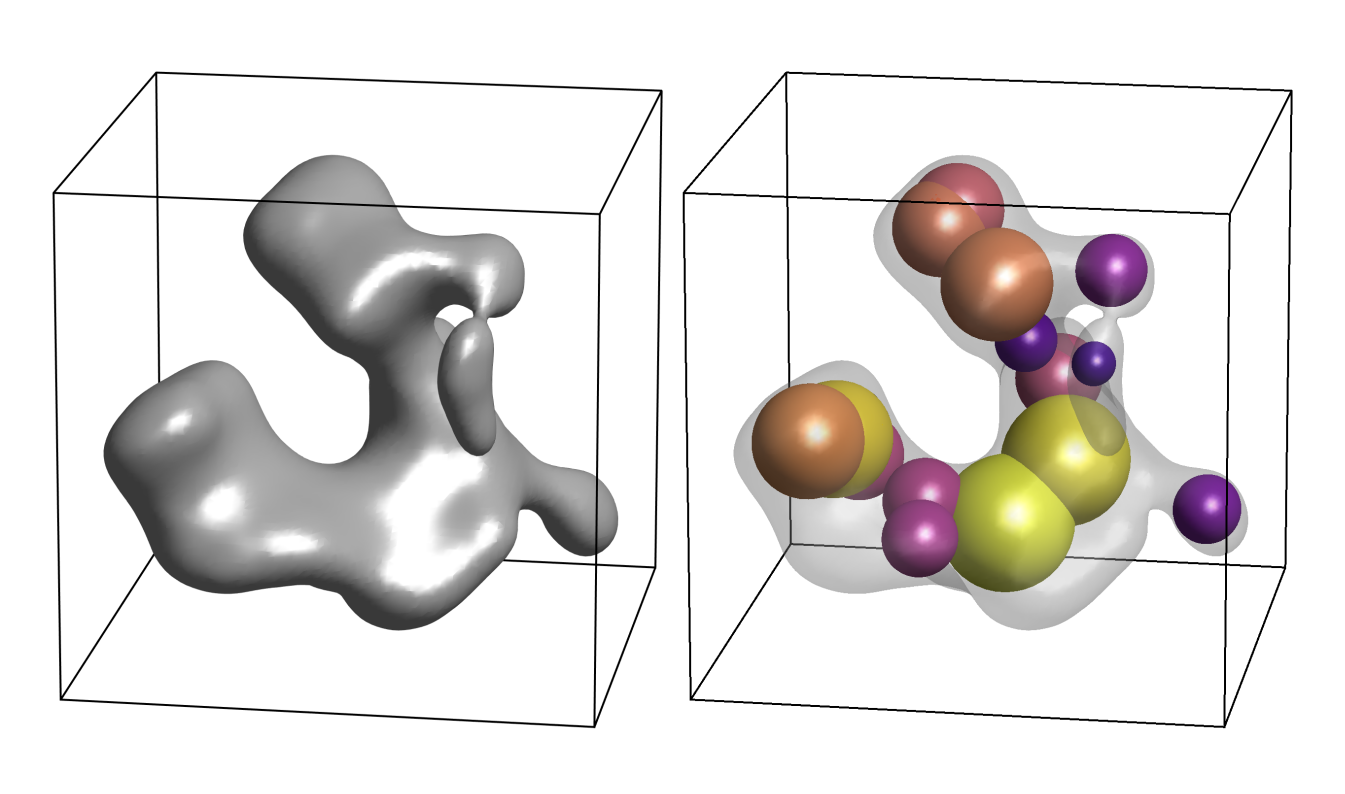
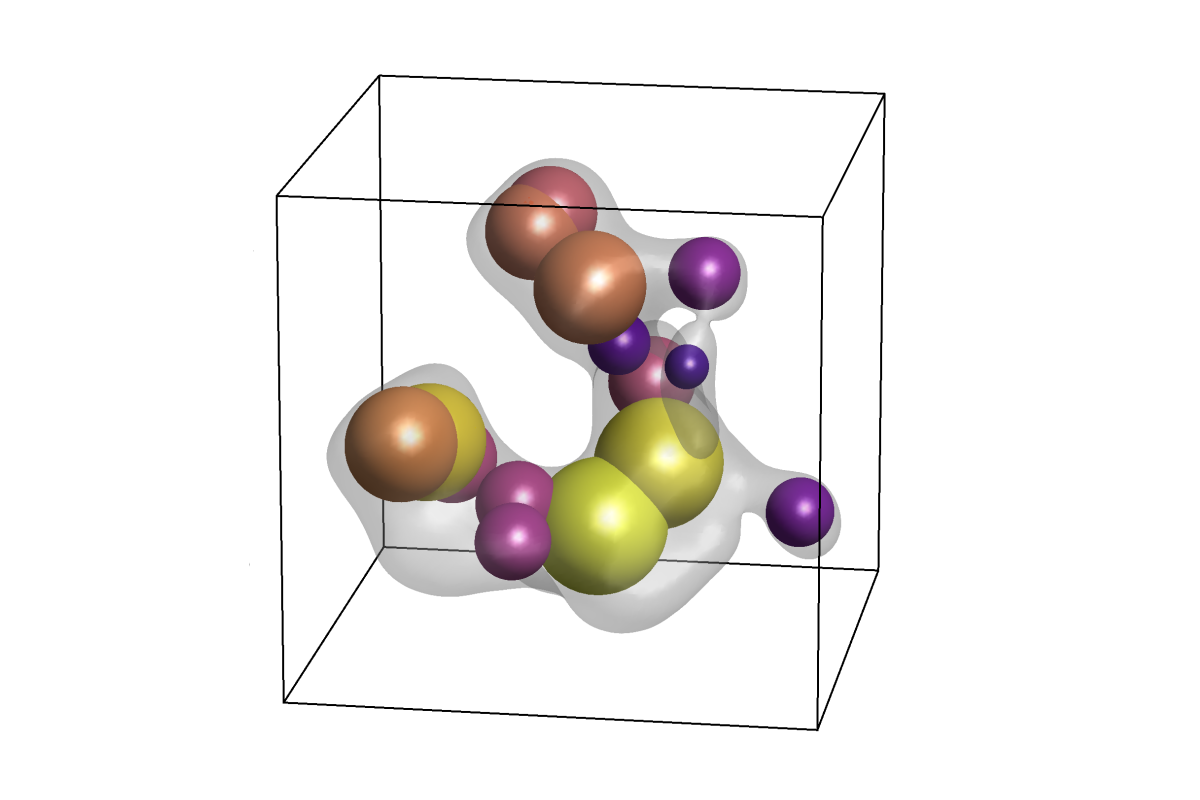
Updated tools

diff --git a/layouts/shortcodes/fig.html b/layouts/shortcodes/fig.html
@@ -1,0 +1,40 @@
+<figure class="my-8">
+  {{ $src := .Get "src" }}
+  {{ $alt := .Get "alt" | default "" }}
+  {{ $caption := .Get "caption" }}
+  {{ $class := "w-full rounded-xl" }}
+
+  {{ $isSvg := strings.HasSuffix (lower $src) ".svg" }}
+
+  {{ if $isSvg }}
+    {{ with resources.Get $src }}
+      {{ .Content | safeHTML }}
+    {{ else }}
+      <img src="{{ $src | relURL }}" alt="{{ $alt }}" class="{{ $class }}" />
+    {{ end }}
+  {{ else }}
+    {{ with resources.Get $src }}
+      {{ $imgRes := . }}
+      {{ $breakpoints := slice 320 480 768 1024 1280 1600 1920 }}
+      {{ $images := slice }}
+      {{ range $breakpoints }}
+        {{ $bp := . }}
+        {{ if ge $imgRes.Width $bp }}
+          {{ $images = $images | append (slice ($imgRes.Resize (printf "%dx q95 webp" $bp))) }}
+        {{ end }}
+      {{ end }}
+      {{ $srcsetList := slice }}
+      {{ range $images }}
+        {{ $srcsetList = $srcsetList | append (slice (printf "%s %dw" .Permalink .Width)) }}
+      {{ end }}
+      {{ $srcset := delimit $srcsetList ", " }}
+      <img src="{{ $imgRes.Permalink }}"{{ with $srcset }} srcset="{{ . }}"{{ end }} alt="{{ $alt }}" class="{{ $class }}" loading="lazy" decoding="async" />
+    {{ else }}
+      <img src="{{ $src | relURL }}" alt="{{ $alt }}" class="{{ $class }}" loading="lazy" decoding="async" />
+    {{ end }}
+  {{ end }}
+
+  {{ with $caption }}
+    <figcaption class="mt-3 text-center text-sm text-[#777777] italic leading-relaxed">{{ . | markdownify }}</figcaption>
+  {{ end }}
+</figure>

diff --git a/layouts/tools/single.html b/layouts/tools/single.html
@@ -8,7 +8,13 @@
               <h1 class="markdown-title text-3xl xl:text-4xl font-bold xl:leading-normal mb-4">{{ . | markdownify }}</h1>
             {{ end }}
             {{ with .Params.authors }}
-              <p class="text-sm text-gray-500 italic mb-4">{{ . }}</p>
+              <div class="flex flex-wrap gap-2 mb-4">
+                {{ range . }}
+                  <span class="inline-flex items-center px-2.5 py-1 rounded-full text-xs font-semibold tag-gray">
+                    {{ . }}
+                  </span>
+                {{ end }}
+              </div>
             {{ end }}
             {{ with .Description }}
               <p class="text-lg xl:leading-loose font-medium text-[#777777]">{{ . }}</p>
@@ -46,7 +52,7 @@
 
     <!-- Tool Details -->
     <div class="container mx-auto px-4 mb-28">
-      <div class="prose-lg prose prose-img:max-w-full">
+      <div class="prose-lg prose prose-img:max-w-full max-w-none">
         {{ .Content }}
       </div>
     </div>

diff --git a/layouts/baseof.html b/layouts/baseof.html
@@ -120,6 +120,23 @@
     {{ end }}
 
 
+    <!-- KaTeX for math rendering -->
+    <link rel="stylesheet" href="https://cdn.jsdelivr.net/npm/katex@0.16.11/dist/katex.min.css">
+    <script src="https://cdn.jsdelivr.net/npm/katex@0.16.11/dist/katex.min.js"></script>
+    <script src="https://cdn.jsdelivr.net/npm/katex@0.16.11/dist/contrib/auto-render.min.js"></script>
+    <script>
+      document.addEventListener('DOMContentLoaded', function () {
+        renderMathInElement(document.body, {
+          delimiters: [
+            { left: '$$', right: '$$', display: true },
+            { left: '\\[', right: '\\]', display: true },
+            { left: '$', right: '$', display: false },
+            { left: '\\(', right: '\\)', display: false },
+          ],
+        });
+      });
+    </script>
+
     <!-- Load JS -->
     {{- $main := resources.Get "js/main.js" -}}
     {{ with $main }}

diff --git a/layouts/tools/list.html b/layouts/tools/list.html
@@ -38,9 +38,9 @@
               {{ if $img }}
                 {{ $src := printf "%v" $img }}
                 {{ if strings.HasSuffix (lower $src) ".svg" }}
-                  {{ partial "utilities/svg" (dict "src" $src "class" "w-full h-full object-contain object-center") }}
+                  {{ partial "utilities/svg" (dict "src" $src "class" "w-full h-full object-cover object-center") }}
                 {{ else }}
-                  {{ partial "utilities/image" (dict "src" $src "class" "w-full h-full object-contain object-center") }}
+                  {{ partial "utilities/image" (dict "src" $src "class" "w-full h-full object-cover object-center") }}
                 {{ end }}
               {{ end }}
             </div>

diff --git a/layouts/list.html b/layouts/list.html
@@ -59,12 +59,12 @@
                 {{ if strings.HasSuffix (lower $src) ".svg" }}
                   {{ partial "utilities/svg" (dict
                     "src" $src
-                    "class" "w-full h-full object-contain object-center"
+                    "class" "w-full h-full object-cover object-center"
                   ) }}
                 {{ else }}
                   {{ partial "utilities/image" (dict
                     "src" $src
-                    "class" "w-full h-full object-contain object-center"
+                    "class" "w-full h-full object-cover object-center"
                   ) }}
                 {{ end }}
               {{ end }}

diff --git a/layouts/support/list.html b/layouts/support/list.html
@@ -48,12 +48,12 @@
                 {{ if strings.HasSuffix (lower $src) ".svg" }}
                   {{ partial "utilities/svg" (dict
                     "src" $src
-                    "class" "w-full h-full object-contain object-center"
+                    "class" "w-full h-full object-cover object-center"
                   ) }}
                 {{ else }}
                   {{ partial "utilities/image" (dict
                     "src" $src
-                    "class" "w-full h-full object-contain object-center"
+                    "class" "w-full h-full object-cover object-center"
                   ) }}
                 {{ end }}
               {{ end }}

diff --git a/layouts/single.html b/layouts/single.html
@@ -1,7 +1,7 @@
 {{ define "main" }}
   <section class="py-16">
     <div class="container mx-auto px-4 mb-24">
-      <div class="mx-auto xl:max-w-1/2 mb-16">
+      <div class="mb-16">
         {{ with .Title }}
           <h1 class="markdown-title text-center text-4xl xl:text-5xl font-bold xl:leading-normal mb-10">{{ . | markdownify }}</h1>
         {{ end }}
@@ -21,7 +21,7 @@
     <!--Highlighted Post-->
     {{ $post := (index .RegularPages 0) }}
     <div class="container mx-auto px-4 mb-28">
-      <div class="prose-lg prose mx-auto">
+      <div class="prose-lg prose max-w-none">
         {{ .Content }}
       </div>
     </div>

diff --git a/layouts/support/single.html b/layouts/support/single.html
@@ -1,7 +1,7 @@
 {{ define "main" }}
   <section class="py-16">
     <div class="container mx-auto px-4 mb-24">
-      <div class="mx-auto max-w-5xl">
+      <div>
         {{ with .Title }}
           <h1 class="markdown-title text-center text-4xl xl:text-5xl font-bold xl:leading-normal mb-10">{{ . | markdownify }}</h1>
         {{ end }}
@@ -12,7 +12,7 @@
     </div>
 
     <div class="container mx-auto px-4 mb-28">
-      <div class="prose-lg prose prose-img:max-w-full mx-auto max-w-5xl">
+      <div class="prose-lg prose prose-img:max-w-full max-w-none">
         {{ .Content }}
       </div>
     </div>

diff --git a/layouts/events/single.html b/layouts/events/single.html
@@ -1,6 +1,6 @@
 {{ define "main" }}
   <section class="py-16">
-    <div class="container mx-auto px-4 max-w-4xl">
+    <div class="container mx-auto px-4">
       <article>
         <header class="mb-12">
           <h1 class="text-4xl md:text-5xl font-bold mb-4">{{ .Title }}</h1>

diff --git a/assets/css/styles.css b/assets/css/styles.css
@@ -13,6 +13,16 @@
   h1 {
     color: #505050;
   }
+
+  img {
+    max-height: 600px;
+    width: auto;
+    height: auto;
+    object-fit: contain;
+    display: block;
+    margin-left: auto;
+    margin-right: auto;
+  }
 }
 
 @theme {

diff --git a/content/tools/structure-tensor.md b/content/tools/structure-tensor.md
@@ -1,16 +1,76 @@
 +++
 title = "Structure Tensor"
-description = "Analyses orientation in volumetric images using the structure tensor method."
-authors = "Niels Jeppesen"
-tags = ["Analysis"]
+description = "Analyses orientation in volumetric images using the gradient-based structure tensor method."
+authors = ["Niels Jeppesen"]
+tags = ["Analysis", "Orientation"]
 image = "images/tools/structure-tensor.png"
 source_url = "https://github.com/Skielex/structure-tensor"
 +++
 
 ## Overview
 
-This tool analyses orientation in volumetric images using the structure tensor method. The structure tensor is a gradient-based method that can be used to estimate the local orientation and anisotropy in images.
+The structure tensor is a 3×3 symmetric positive semi-definite matrix that summarizes orientation in a small neighbourhood around every point in a 3D volume. It captures how intensities change along different directions, making it a fundamental tool for analysing fibrous, layered, and other anisotropic structures in volumetric data.
+
+This tool provides an efficient implementation for computing the structure tensor and extracting dominant orientations and shape measures from large 3D datasets.
+
+## Algorithm
+
+Given a 3D volume $V$, the squared intensity change along a direction $\mathbf{u}$ in a neighbourhood around a point $\mathbf{p}$ can be expressed as $\mathbf{u}^T S \, \mathbf{u}$, where $S$ is the structure tensor. Minimising this quadratic form with respect to $\mathbf{u}$ yields the predominant local orientation.
+
+The structure tensor $S$ at a point $\mathbf{p}$ is computed from the gradient $\nabla V$ as:
+
+$$S = \sum_{\mathcal{N}} \nabla V \, \nabla V^T$$
+
+where the sum is taken over a local neighbourhood $\mathcal{N}$ around $\mathbf{p}$.
+
+{{< fig src="/images/tools/structure-tensor/Figure1.png" caption="**Figure 1:** Minimisation problem in 2D. The paraboloid surface is defined by values of $D$ for any displacement $(x, y)$. In orange-red are the values of $D$ above the unit circle, and the dot indicates the minimum corresponding to the predominant orientation. In magenta-red are the values above the line $y = 1$, and the dot indicates the minimum corresponding to optical flow." >}}
+
+Computation involves two Gaussian scale parameters:
+
+- **Noise scale $\sigma$** — used for derivative computation. The volume is convolved with derivatives of a Gaussian to obtain $\nabla_\sigma V$, making the gradient estimation robust to noise.
+- **Integration scale $\rho$** — the size of the neighbourhood over which orientation information is averaged, controlled by convolving the outer product with a Gaussian $K_\rho$.
+
+### Eigendecomposition
+
+Since $S$ is symmetric positive semi-definite, its eigendecomposition yields three real, non-negative eigenvalues $\lambda_1 \leq \lambda_2 \leq \lambda_3$ with corresponding orthogonal eigenvectors $\mathbf{v}_1, \mathbf{v}_2, \mathbf{v}_3$.
+
+The eigenvector $\mathbf{v}_1$ associated with the smallest eigenvalue $\lambda_1$ indicates the **predominant local orientation** — the direction of minimal intensity variation. The eigenvectors $\mathbf{v}_2$ and $\mathbf{v}_3$ span the orthogonal plane.
+
+### Shape Measures
+
+From the eigenvalues, three normalised shape measures are derived, which sum to 1:
+
+| Measure | Formula | Meaning |
+|---|---|---|
+| $c_l$ (linear) | $\frac{\lambda_3 - \lambda_2}{\lambda_3}$ | Anisotropic, line-like structure |
+| $c_p$ (planar) | $\frac{\lambda_2 - \lambda_1}{\lambda_3}$ | Sheet-like structure |
+| $c_s$ (spherical) | $\frac{\lambda_1}{\lambda_3}$ | Isotropic, blob-like structure |
+
+High $c_l$ indicates a well-defined fibrous orientation, high $c_p$ indicates a layered structure, and high $c_s$ indicates isotropic regions.
+
+{{< fig src="/images/tools/structure-tensor/Figure2.png" caption="**Figure 2:** Neighbourhoods and structures corresponding to linear, planar and spherical shape measures." >}}
+
+{{< fig src="/images/tools/structure-tensor/Figure5.png" caption="**Figure 5:** Orientation analysis on synthetic objects — shape measures $c_l$, $c_p$, $c_s$ visualised using RGB colour channels (red = $c_l$, green = $c_p$, blue = $c_s$)." >}}
+
+## Features
+
+- Computes structure tensor for every voxel in large 3D volumes
+- Extracts dominant orientation ($\mathbf{v}_1$) and shape measures ($c_l, c_p, c_s$)
+- Configurable noise scale $\sigma$ and integration scale $\rho$
+- Also computes fractional anisotropy and other diffusion-like metrics
+- Can be used as a standalone application or via our HPC platform
+- Efficient enough for large volumetric datasets
 
 ## Usage
 
 The tool can be used both as a standalone application and through our High Performance Computing platform. For large 3D image datasets that require cluster access, please contact us.
+
+## Applications
+
+- **Fibre orientation analysis** in materials science and bioimaging
+- **Layer detection** in sedimentary and layered materials
+- **Quality control** of anisotropic materials
+- **Preprocessing** for diffusion tensor imaging and optical flow
+- **Feature detection** — corner and interest point detection in 3D
+
+{{< fig src="/images/tools/structure-tensor/Figure7.png" caption="**Figure 7:** Using colour to visualise dominant orientation of cotton fibres in woven fabric. Colour reveals the direction of the twist holding the cotton fibres together in a yarn." >}}

diff --git a/content/tools/local-thickness.md b/content/tools/local-thickness.md
@@ -1,20 +1,66 @@
 +++
 title = "Local Thickness"
-description = "A lightweight pip-installable tool for computing local thickness in 3D images."
-authors = "Vedrana Andersen Dahl, Anders Bjorholm Dahl"
-tags = ["Analysis"]
+description = "Fast local thickness in 2D and 3D — a pip-installable algorithm described in our CVPR 2023 workshop paper."
+authors = ["Vedrana Andersen Dahl", "Anders Bjorholm Dahl"]
+tags = ["Analysis", "Morphometry"]
 image = "images/tools/local-thickness.png"
-source_url = "https://github.com/qim-center/local-thickness"
+source_url = "https://github.com/vedranaa/local-thickness"
 +++
 
-## Overview
 
-A lightweight pip-installable tool for computing local thickness in 3D images. The local thickness algorithm provides a measure of the thickness at every point in a structure.
+Local thickness is a fundamental morphological measure defined as the radius of the largest circle (in 2D) or sphere (in 3D) that fits inside an object at any given point. Our fast algorithm computes local thickness in a fraction of the time compared to conventional approaches.
 
-## Installation
+The method was presented at the 8th IEEE Workshop on Computer Vision for Microscopy Image Analysis (CVMI), held in conjunction with CVPR 2023.
 
-Install via pip:
+{{< fig src="/images/tools/local-thickness/initial_example.png" caption="Local thickness computed on a 3D volume. The colour map indicates the thickness value at every point in the structure." >}}
 
-```bash
-pip install local-thickness
+## Algorithm
+
+The conventional local thickness algorithm dilates the distance field of an object with increasingly larger spherical structuring elements — an accurate but computationally expensive process. Our fast algorithm instead uses **n consecutive dilations with a sphere of radius 1**, replacing one dilation with a sphere of radius n. This seemingly simple substitution yields mathematically equivalent results while being substantially faster.
+
+In every iteration, small structuring elements operate on subsets (super-levels) of the distance field, and only values larger than the current iteration counter are updated. This means a distance value `d(x) = 5` propagates freely for 5 iterations, correctly filling in the sphere of radius 5.
+
+
+## Instalation
+
+Install the module using `pip install localthickness` or clone the repository.
+
+Basic usage:
+
+```Python
+import localthickness as lt
+
+#  Make a binary test volume. 
+B = lt.create_test_volume((100, 500, 400), sigma=15, boundary=0.001)
+
+# Compute thickness and separation.
+thickness = lt.local_thickness(B, scale=0.5)
+separation = lt.local_thickness(~B, scale=0.5)
+
+# Visualize.
+import matplotlib.pyplot as plt
+fig, ax = plt.subplots(1, 3, figsize=(10, 5))
+ax[0].imshow(B[10])
+ax[1].imshow(thickness[10], cmap=lt.black_plasma())
+ax[2].imshow(separation[10], cmap=lt.white_viridis())
 ```
+{{< fig src="/images/tools/local-thickness/mwe_figure.png" caption="Output of the minimal working example — binary volume (left), thickness map (centre), separation map (right)." >}}
+
+
+## Citation
+
+If you use this tool in your work, please cite:
+
+```bibtex
+@inproceedings{dahl2023fast,
+  title={Fast Local Thickness},
+  author={Dahl, Vedrana Andersen and Dahl, Anders Bjorholm},
+  booktitle={Proceedings of the IEEE/CVF Conference on Computer Vision and Pattern Recognition Workshops},
+  pages={4335--4343},
+  year={2023}
+}
+```
+
+## Applications
+
+Local thickness is widely used in quantitative analysis of porous materials, biomedical imaging, and materials science — wherever the structural dimensions of a 3D object need to be measured at every point. The measure has also been used as a building block for computing sphericity and roundness of objects in large volumes.
